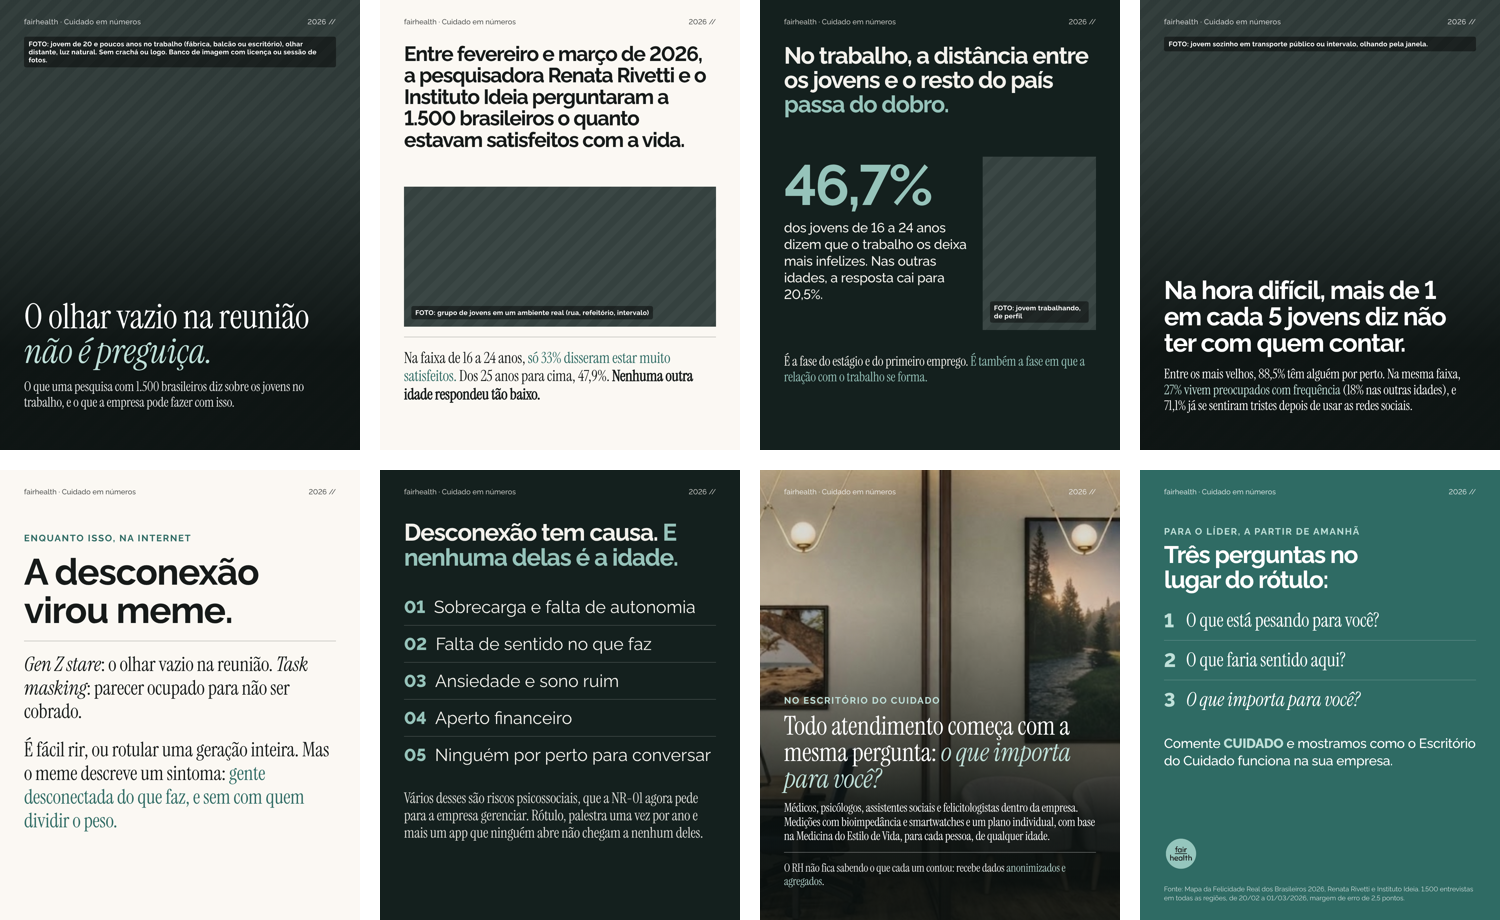
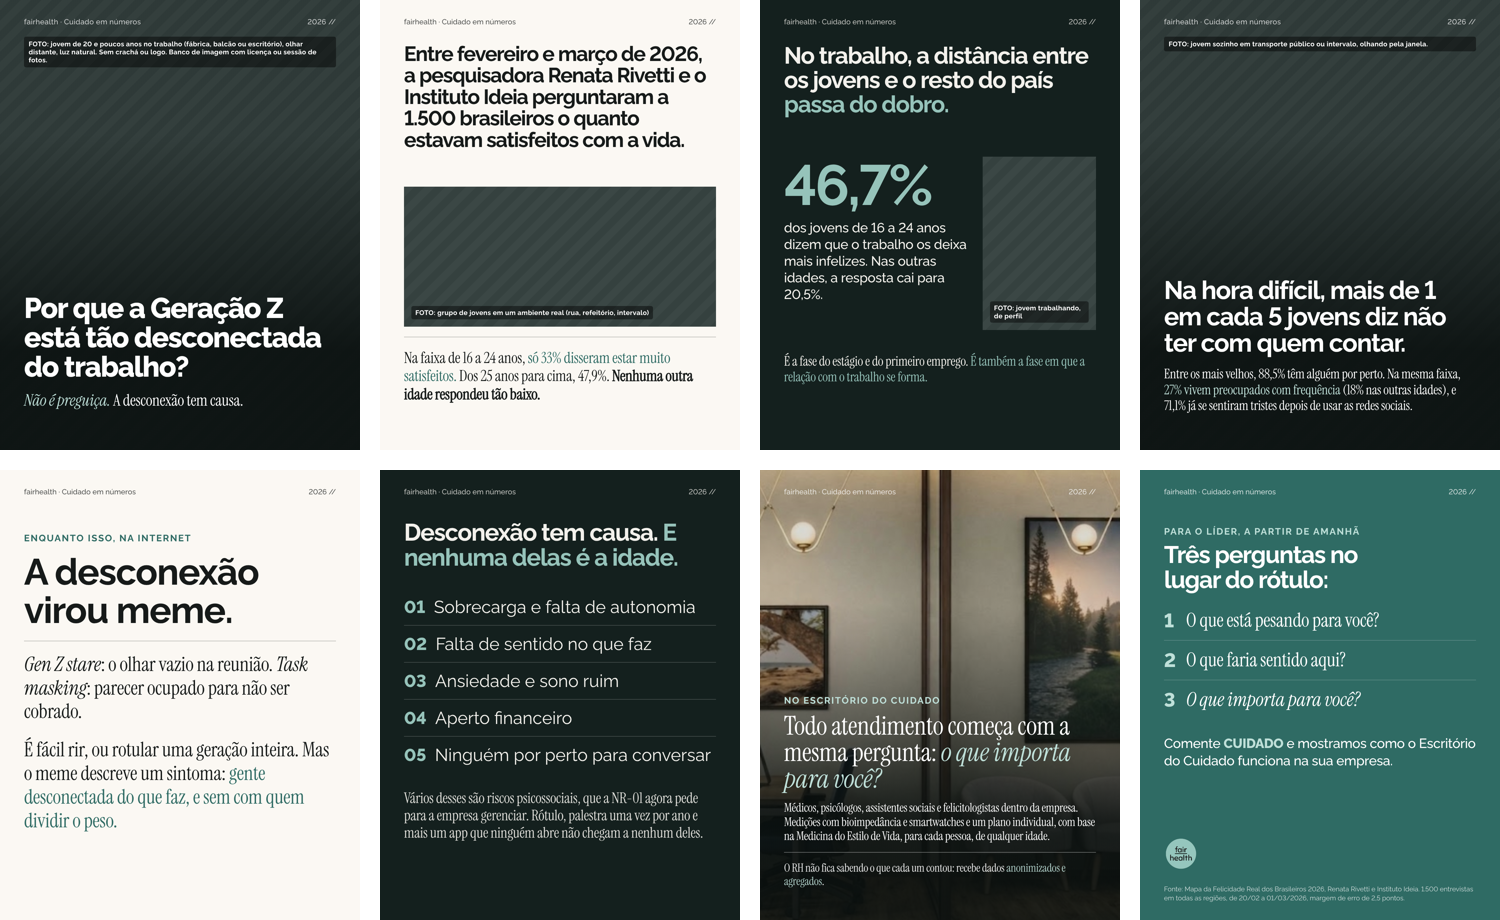
25/11 Geração Z: capa com a pergunta em Raleway e Não é preguiça. A desconexão tem causa; legenda alinhada
Claude-Session: https://claude.ai/code/session_01WTGmTeoCvP3mtmtt6rLzEQ

Changed region(s): [[0.0, 0.3043, 0.2147, 0.4565]]

diff --git a/instagram/posts/geracao-z/slides.html b/instagram/posts/geracao-z/slides.html
@@ -34,13 +34,13 @@
 .logo-c{width:120px;border-radius:50%}
 </style></head><body>
 
-<!-- 1 · CAPA -->
+<!-- 1 · CAPA (16/11: a pergunta do título em Raleway e "Não é preguiça. A desconexão tem causa.", pedido da Nina) -->
 <section class="slide gz foto vaga" id="gz-01">
   <span class="aviso">FOTO: jovem de 20 e poucos anos no trabalho (fábrica, balcão ou escritório), olhar distante, luz natural. Sem crachá ou logo. Banco de imagem com licença ou sessão de fotos.</span>
   <div class="topo"><span>fairhealth · Cuidado em números</span><span>2026 //</span></div>
   <div class="bloco" style="bottom:120px">
-    <h2 class="s" style="font-size:104px;line-height:1.0">O olhar vazio na reunião <i class="ac">não é preguiça.</i></h2>
-    <p class="s" style="font-size:40px;margin-top:30px;opacity:.9">O que uma pesquisa com 1.500 brasileiros diz sobre os jovens no trabalho, e o que a empresa pode fazer com isso.</p>
+    <h2 class="m" style="font-size:86px;font-weight:800;letter-spacing:-3px;line-height:1.02">Por que a Geração Z<br>está tão desconectada<br>do trabalho?</h2>
+    <p class="s" style="font-size:48px;margin-top:30px"><i class="ac">Não é preguiça.</i> A desconexão tem causa.</p>
   </div>
 </section>
 

diff --git a/instagram/posts/geracao-z/README.md b/instagram/posts/geracao-z/README.md
@@ -11,7 +11,7 @@ O texto de cada slide está em `slides.html`, as artes em `png/` e a prévia em
 
 | Slide | Função | Conteúdo |
 | --- | --- | --- |
-| 1 | Capa | O olhar vazio na reunião não é preguiça. |
+| 1 | Capa | Por que a Geração Z está tão desconectada do trabalho? Não é preguiça. A desconexão tem causa. |
 | 2 | Promessa | A pesquisa: 33% dos jovens muito satisfeitos, contra 47,9% |
 | 3 | Dado | 46,7% dizem que o trabalho os deixa mais infelizes (20,5% nas outras idades) |
 | 4 | Dado | Mais de 1 em cada 5 não tem com quem contar; 27% preocupados; 71,1% tristes com as redes |
@@ -61,3 +61,11 @@ Em `legenda.txt` (revisada em 16/11).
 - A v1 de 9 slides fica em `slides-v1-9slides.html` e `png-v1-9slides/`.
 - **Continua pendente:** as fotos dos slides 1 a 4 (vagas listradas), a conferência dos números no material
   original do Mapa da Felicidade e a revisão do Dr. Ronald.
+
+## Capa nova (16/11)
+
+Pedido da Nina: deixar claras a pergunta "Por que a Geração Z está tão desconectada do trabalho?" e a ideia "não é
+preguiça, a desconexão tem causa". A capa passou a ter a pergunta como título, em Raleway 800 (pedido dela), e
+"*Não é preguiça.* A desconexão tem causa." como subtítulo em serif. O "olhar vazio na reunião" continua no slide 5
+(o meme), e o slide 6 ("Desconexão tem causa. E nenhuma delas é a idade.") responde à capa. A primeira linha da
+legenda virou a mesma pergunta; o termo de busca "saúde mental no trabalho" foi para o parágrafo da NR-01.
